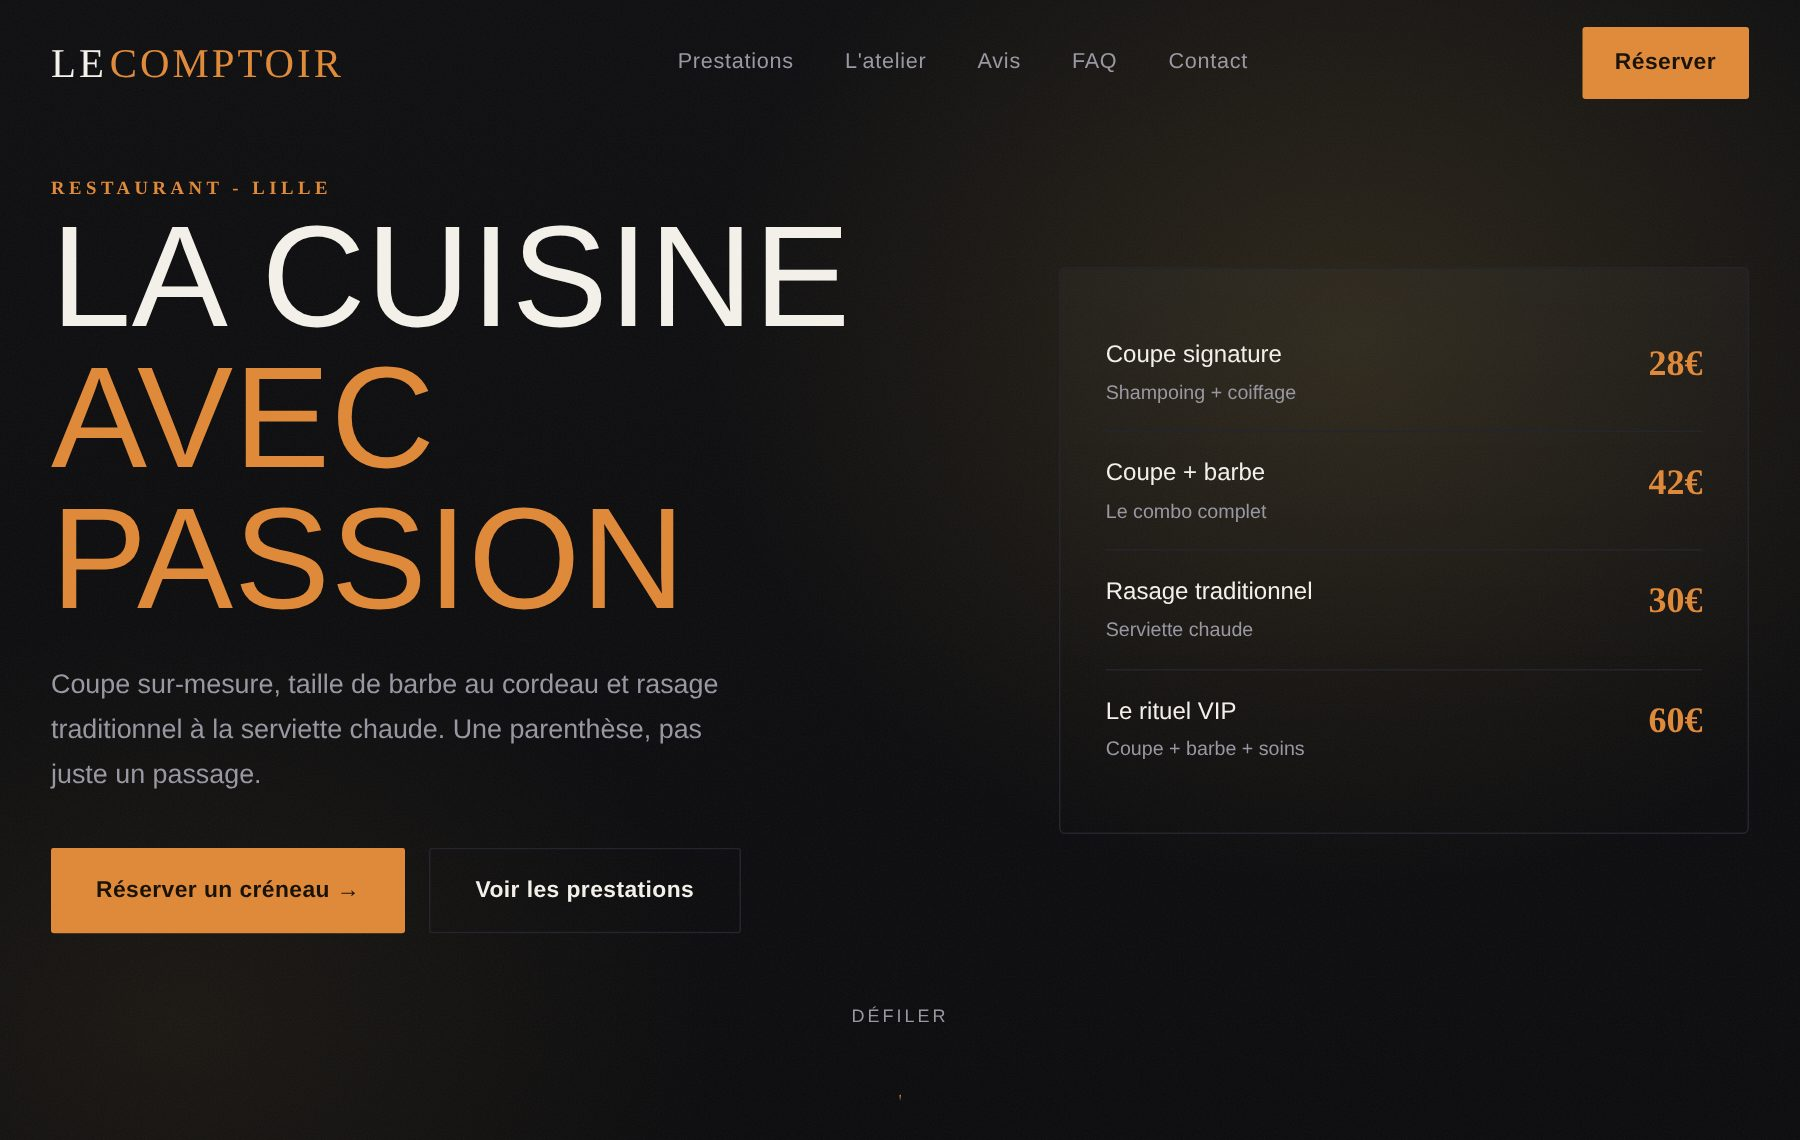
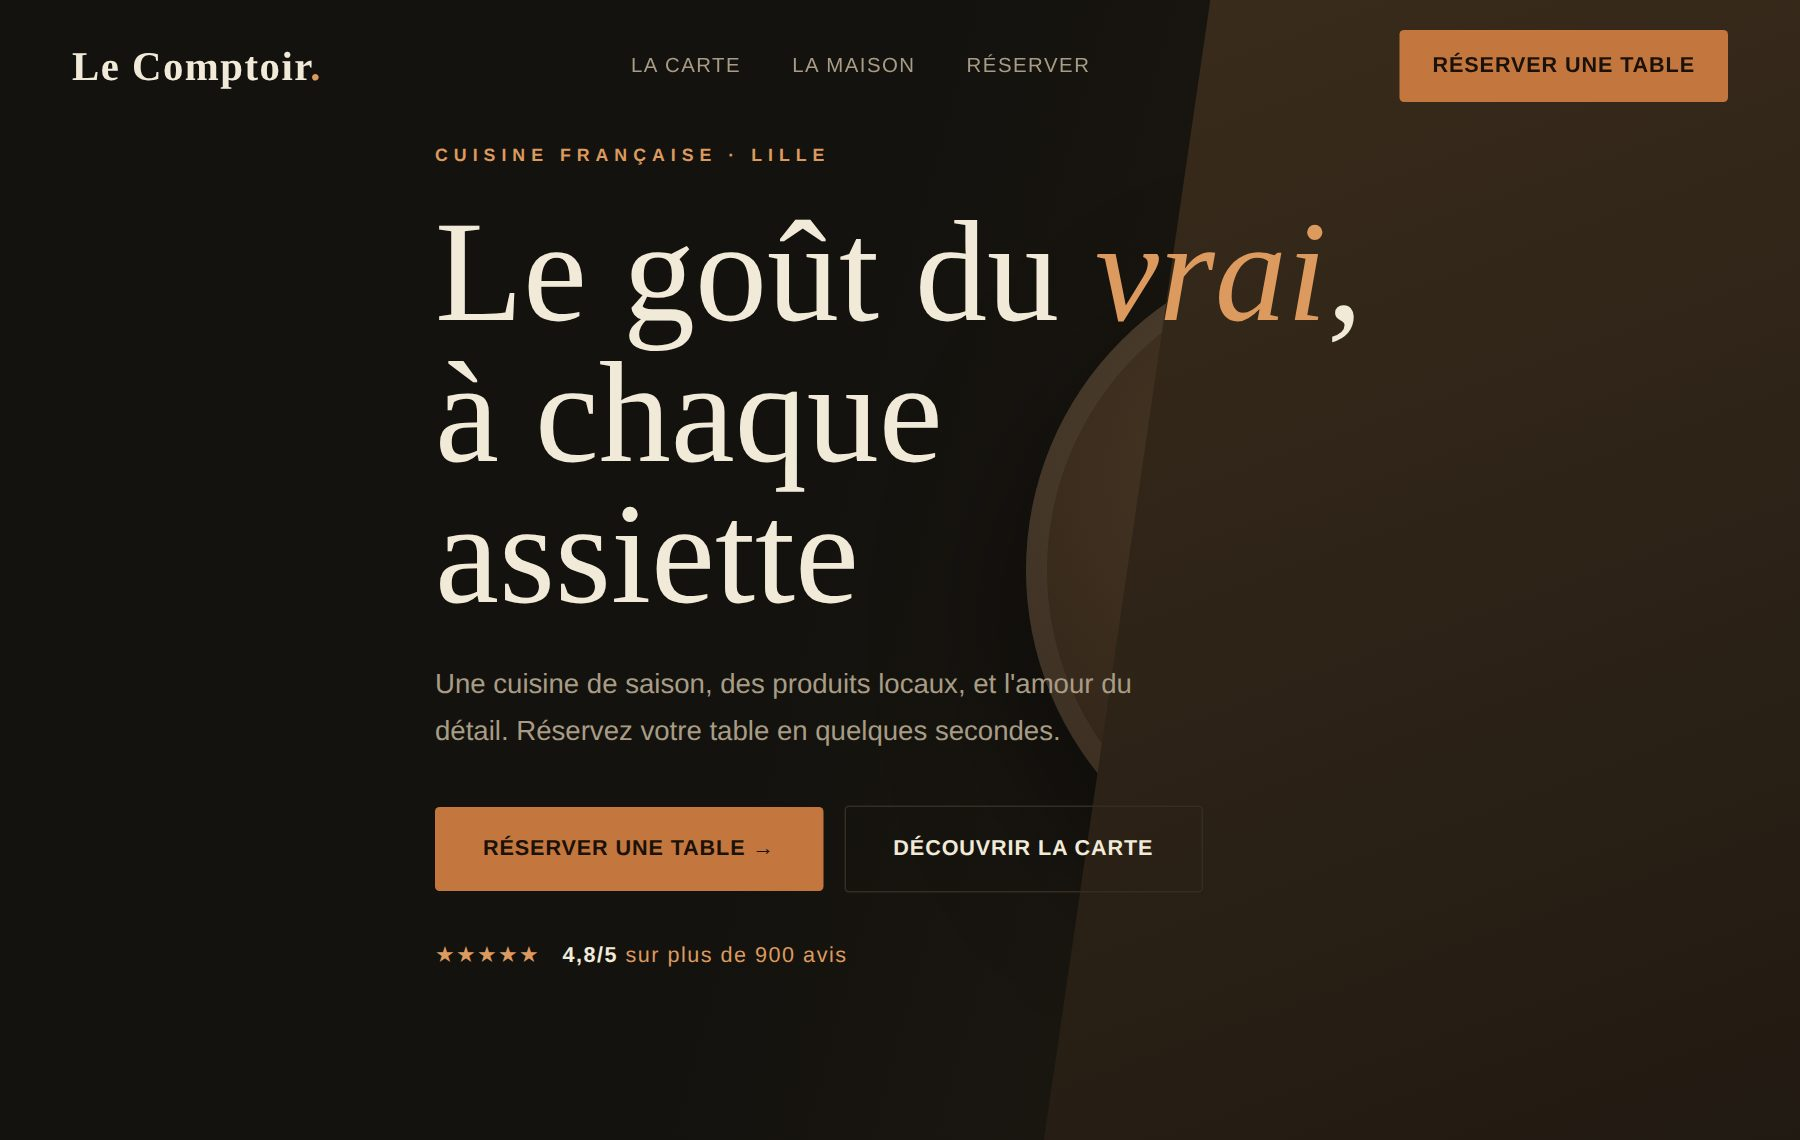
Nouveaux sites demo distincts (Bella Nails beaute + Le Comptoir resto) + portfolio maj

diff --git a/sites_demo/le-comptoir/index.html b/sites_demo/le-comptoir/index.html
@@ -1,0 +1,118 @@
+<!DOCTYPE html>
+<html lang="fr">
+<head>
+<meta charset="UTF-8">
+<meta name="viewport" content="width=device-width, initial-scale=1.0">
+<title>Le Comptoir — Restaurant de cuisine française à Lille</title>
+<meta name="description" content="Restaurant gastronomique à Lille. Cuisine française de saison, produits locaux. Réservation en ligne.">
+<link rel="preconnect" href="https://fonts.googleapis.com"><link rel="preconnect" href="https://fonts.gstatic.com" crossorigin>
+<link href="https://fonts.googleapis.com/css2?family=Fraunces:opsz,wght@9..144,400;9..144,500;9..144,600;9..144,700&family=Inter:wght@300;400;500&display=swap" rel="stylesheet">
+<style>
+:root{--bg:#14120e;--bg2:#1c1913;--cream:#f2ead9;--ink:#14120e;--terra:#c4763f;--terra2:#dd9a5e;--olive:#7d8466;--mut:#a89c86;--line:#332d22;--ease:cubic-bezier(.22,1,.36,1)}
+*{margin:0;padding:0;box-sizing:border-box}html{scroll-behavior:smooth}
+body{background:var(--bg);color:var(--cream);font-family:'Inter',sans-serif;line-height:1.7}
+a{text-decoration:none;color:inherit}
+.serif{font-family:'Fraunces',serif}
+.wrap{max-width:1160px;margin:0 auto;padding:0 28px}
+.btn{display:inline-flex;align-items:center;gap:9px;background:var(--terra);color:#1a1109;padding:16px 32px;border-radius:3px;font-weight:600;font-size:.9rem;letter-spacing:.6px;text-transform:uppercase;transition:.35s var(--ease)}
+.btn:hover{background:var(--terra2);transform:translateY(-2px);box-shadow:0 14px 32px rgba(196,118,63,.3)}
+.btn-out{background:transparent;border:1px solid var(--line);color:var(--cream)}
+.btn-out:hover{border-color:var(--cream)}
+.eyebrow{font-size:.74rem;letter-spacing:4px;text-transform:uppercase;color:var(--terra2);font-weight:600}
+header{position:fixed;inset:0 0 auto;z-index:50;transition:.4s}
+header.scr{background:rgba(20,18,14,.9);backdrop-filter:blur(10px);border-bottom:1px solid var(--line)}
+.nav{display:flex;align-items:center;justify-content:space-between;height:88px}
+.logo{font-family:'Fraunces';font-weight:600;font-size:1.7rem;letter-spacing:1px}
+.logo span{color:var(--terra2)}
+.menu{display:flex;gap:34px;align-items:center}
+.menu a{font-size:.85rem;color:var(--mut);letter-spacing:1px;text-transform:uppercase}.menu a:hover{color:var(--cream)}
+.burger{display:none;font-size:1.5rem;background:none;border:none;color:var(--cream);cursor:pointer}
+.hero{position:relative;min-height:100vh;display:flex;align-items:center;padding-top:88px;overflow:hidden}
+.hero-bg{position:absolute;inset:0;z-index:0;background:linear-gradient(105deg,#14120e 0%,#14120e 46%,#241f16 100%)}
+.hero-bg::after{content:"";position:absolute;right:0;top:0;bottom:0;width:42%;background:linear-gradient(160deg,#3a2c1c,#211a12);clip-path:polygon(22% 0,100% 0,100% 100%,0 100%)}
+.hero-bg .plate{position:absolute;right:7%;top:50%;transform:translateY(-50%);width:min(36vw,440px);aspect-ratio:1;border-radius:50%;background:radial-gradient(circle at 40% 35%,#4a3826,#241a10);box-shadow:0 40px 90px rgba(0,0,0,.5),inset 0 0 0 14px rgba(242,234,217,.06);display:grid;place-items:center}
+.hero-bg .plate span{font-family:'Fraunces';font-style:italic;color:var(--mut);font-size:1.3rem}
+.hero-inner{position:relative;z-index:2;max-width:620px}
+.hero h1{font-family:'Fraunces';font-size:clamp(3.2rem,8vw,6rem);font-weight:500;line-height:.98;margin:18px 0 24px}
+.hero h1 em{font-style:italic;color:var(--terra2)}
+.hero p{color:var(--mut);font-size:1.15rem;max-width:480px;margin-bottom:34px}
+.hero-actions{display:flex;gap:14px;flex-wrap:wrap;align-items:center}
+.stars{margin-top:30px;color:var(--terra2);font-size:.9rem;letter-spacing:1px}
+.stars b{color:var(--cream)}
+section{padding:110px 0}
+.head{max-width:620px;margin:0 auto 64px;text-align:center}
+.head h2{font-family:'Fraunces';font-size:clamp(2.4rem,5vw,3.6rem);font-weight:500;margin:12px 0}
+.head p{color:var(--mut)}
+.dishes{display:grid;grid-template-columns:repeat(3,1fr);gap:26px}
+.dish{border:1px solid var(--line);border-radius:6px;overflow:hidden;background:var(--bg2);transition:.4s var(--ease)}
+.dish:hover{transform:translateY(-6px);border-color:var(--terra)}
+.dish .img{aspect-ratio:4/3;background:linear-gradient(150deg,#3a2c1c,#221a11)}
+.dish:nth-child(2) .img{background:linear-gradient(150deg,#3c3322,#211d12)}
+.dish:nth-child(3) .img{background:linear-gradient(150deg,#42301f,#241813)}
+.dish .info{padding:24px}
+.dish h3{font-family:'Fraunces';font-size:1.5rem;font-weight:500;margin-bottom:6px}
+.dish p{color:var(--mut);font-size:.92rem}
+.dish .price{font-family:'Fraunces';color:var(--terra2);font-size:1.3rem;margin-top:12px;display:block}
+.split{display:grid;grid-template-columns:1fr 1fr;gap:60px;align-items:center}
+.frame{aspect-ratio:4/5;border-radius:6px;background:linear-gradient(150deg,#2c2417,#1a150e);position:relative;display:grid;place-items:center}
+.frame span{font-family:'Fraunces';font-style:italic;color:var(--mut)}
+.frame::after{content:"";position:absolute;inset:16px;border:1px solid rgba(242,234,217,.14)}
+.split h2{font-family:'Fraunces';font-size:clamp(2.2rem,4.5vw,3.2rem);font-weight:500;margin:14px 0 16px}
+.split p{color:var(--mut);margin-bottom:14px}
+.band{position:relative;text-align:center;padding:90px 30px;background:linear-gradient(180deg,#1c1913,#14120e);border-top:1px solid var(--line);border-bottom:1px solid var(--line)}
+.band h2{font-family:'Fraunces';font-size:clamp(2.4rem,5vw,3.8rem);font-weight:500;margin-bottom:16px}
+.band p{color:var(--mut);margin-bottom:28px}
+footer{padding:54px 0 30px;text-align:center;color:var(--mut);font-size:.85rem}
+@media(max-width:860px){.menu{display:none}.burger{display:block}.dishes,.split{grid-template-columns:1fr}.hero-bg::after,.hero-bg .plate{display:none}}
+</style></head>
+<body>
+<header id="h"><div class="wrap nav">
+  <a href="#" class="logo">Le Comptoir<span>.</span></a>
+  <nav class="menu"><a href="#carte">La carte</a><a href="#maison">La maison</a><a href="#reserver">Réserver</a></nav>
+  <a href="#reserver" class="btn" style="padding:12px 22px">Réserver une table</a>
+</div></header>
+
+<section class="hero">
+  <div class="hero-bg"><div class="plate"><span>Votre plat signature</span></div></div>
+  <div class="wrap"><div class="hero-inner">
+    <span class="eyebrow">Cuisine française · Lille</span>
+    <h1 class="serif">Le goût du <em>vrai</em>, à chaque assiette</h1>
+    <p>Une cuisine de saison, des produits locaux, et l'amour du détail. Réservez votre table en quelques secondes.</p>
+    <div class="hero-actions">
+      <a href="#reserver" class="btn">Réserver une table →</a>
+      <a href="#carte" class="btn btn-out">Découvrir la carte</a>
+    </div>
+    <div class="stars">★★★★★ &nbsp; <b>4,8/5</b> sur plus de 900 avis</div>
+  </div></div>
+</section>
+
+<section id="carte"><div class="wrap">
+  <div class="head"><span class="eyebrow">La carte</span><h2 class="serif">Nos plats signature</h2><p>Une sélection qui change au fil des saisons.</p></div>
+  <div class="dishes">
+    <div class="dish"><div class="img"></div><div class="info"><h3 class="serif">Ris de veau</h3><p>Jus corsé, légumes glacés de saison.</p><span class="price serif">28€</span></div></div>
+    <div class="dish"><div class="img"></div><div class="info"><h3 class="serif">Bar de ligne</h3><p>Beurre blanc, fenouil rôti.</p><span class="price serif">26€</span></div></div>
+    <div class="dish"><div class="img"></div><div class="info"><h3 class="serif">Soufflé chocolat</h3><p>Coeur coulant, glace vanille bourbon.</p><span class="price serif">12€</span></div></div>
+  </div>
+</div></section>
+
+<section id="maison" style="background:var(--bg2)"><div class="wrap split">
+  <div class="frame"><span>Photo de la salle</span></div>
+  <div>
+    <span class="eyebrow">La maison</span>
+    <h2 class="serif">Une table, une histoire</h2>
+    <p>Depuis 2014, Le Comptoir réunit les amoureux de la bonne chère dans une ambiance chaleureuse et intime.</p>
+    <p>Produits sélectionnés chez nos producteurs locaux, cuisine ouverte, service aux petits soins.</p>
+    <a href="#reserver" class="btn" style="margin-top:14px">Réserver votre soirée →</a>
+  </div>
+</div></section>
+
+<section style="padding:0"><div class="band">
+  <span class="eyebrow">Réservation</span>
+  <h2 class="serif">Réservez votre table</h2>
+  <p>Midi & soir, du mardi au dimanche. En ligne, en deux clics.</p>
+  <a href="#" class="btn">Réserver maintenant →</a>
+</div></section>
+
+<footer><div class="wrap"><div class="logo" style="margin-bottom:10px">Le Comptoir<span>.</span></div>© 2026 Le Comptoir — Restaurant à Lille · Site par Studio Lumen</div></footer>
+<script>addEventListener('scroll',()=>document.getElementById('h').classList.toggle('scr',scrollY>30));</script>
+</body></html>

diff --git a/sites_demo/bella-nails/index.html b/sites_demo/bella-nails/index.html
@@ -1,0 +1,115 @@
+<!DOCTYPE html>
+<html lang="fr">
+<head>
+<meta charset="UTF-8">
+<meta name="viewport" content="width=device-width, initial-scale=1.0">
+<title>Bella Nails — Onglerie & beauté des mains à Lille</title>
+<meta name="description" content="Onglerie premium à Lille. Pose gel, nail art, manucure, soins. Prise de rendez-vous en ligne.">
+<link rel="preconnect" href="https://fonts.googleapis.com"><link rel="preconnect" href="https://fonts.gstatic.com" crossorigin>
+<link href="https://fonts.googleapis.com/css2?family=Cormorant+Garamond:wght@400;500;600;700&family=Jost:wght@300;400;500;600&display=swap" rel="stylesheet">
+<style>
+:root{--bg:#fbf4f1;--cream:#fff;--ink:#33222a;--rose:#d98ba0;--rose2:#c06f88;--gold:#bda07a;--mut:#917f86;--line:#ecddd7;--ease:cubic-bezier(.22,1,.36,1)}
+*{margin:0;padding:0;box-sizing:border-box}html{scroll-behavior:smooth}
+body{background:var(--bg);color:var(--ink);font-family:'Jost',sans-serif;line-height:1.7}
+a{text-decoration:none;color:inherit}
+.serif{font-family:'Cormorant Garamond',serif}
+.wrap{max-width:1140px;margin:0 auto;padding:0 26px}
+.btn{display:inline-flex;align-items:center;gap:8px;background:var(--ink);color:#fff;padding:15px 30px;border-radius:50px;font-weight:500;font-size:.92rem;letter-spacing:.5px;transition:.35s var(--ease)}
+.btn:hover{background:var(--rose2);transform:translateY(-2px);box-shadow:0 14px 30px rgba(192,111,136,.3)}
+.btn-out{background:transparent;border:1px solid var(--ink);color:var(--ink)}
+.btn-out:hover{background:var(--ink);color:#fff}
+.eyebrow{font-size:.74rem;letter-spacing:4px;text-transform:uppercase;color:var(--rose2);font-weight:600}
+header{position:fixed;inset:0 0 auto;z-index:50;transition:.4s}
+header.scr{background:rgba(251,244,241,.92);backdrop-filter:blur(10px);border-bottom:1px solid var(--line)}
+.nav{display:flex;align-items:center;justify-content:space-between;height:84px}
+.logo{font-family:'Cormorant Garamond';font-weight:700;font-size:1.9rem;letter-spacing:.5px}
+.logo span{color:var(--rose2);font-style:italic}
+.menu{display:flex;gap:32px;align-items:center}
+.menu a{font-size:.9rem;color:var(--mut);letter-spacing:.5px}.menu a:hover{color:var(--ink)}
+.burger{display:none;font-size:1.5rem;background:none;border:none;cursor:pointer}
+.hero{position:relative;padding:150px 0 90px;overflow:hidden}
+.hero::before{content:"";position:absolute;width:560px;height:560px;background:radial-gradient(circle,rgba(217,139,160,.18),transparent 70%);border-radius:50%;top:-120px;right:-120px;z-index:0}
+.hero-grid{display:grid;grid-template-columns:1.05fr .95fr;gap:54px;align-items:center;position:relative;z-index:1}
+.hero h1{font-size:clamp(3rem,6.5vw,5.2rem);font-weight:600;line-height:1.02;margin:16px 0 22px}
+.hero h1 em{font-style:italic;color:var(--rose2)}
+.hero p{color:var(--mut);font-size:1.12rem;max-width:460px;margin-bottom:32px}
+.hero-actions{display:flex;gap:14px;flex-wrap:wrap}
+.hero-visual{aspect-ratio:4/5;border-radius:220px 220px 28px 28px;background:linear-gradient(160deg,#f3d4dd,#e9bccb);position:relative;display:grid;place-items:center;overflow:hidden;box-shadow:0 30px 70px rgba(192,111,136,.25)}
+.hero-visual .lab{font-family:'Cormorant Garamond';font-style:italic;font-size:1.6rem;color:#fff;opacity:.85}
+.hero-visual::after{content:"";position:absolute;inset:16px;border:1px solid rgba(255,255,255,.5);border-radius:200px 200px 20px 20px}
+.tags{display:flex;gap:26px;margin-top:34px;flex-wrap:wrap}
+.tags div{display:flex;flex-direction:column}
+.tags b{font-family:'Cormorant Garamond';font-size:1.9rem;color:var(--rose2);line-height:1}
+.tags span{font-size:.8rem;color:var(--mut)}
+section{padding:96px 0}
+.head{text-align:center;max-width:600px;margin:0 auto 60px}
+.head h2{font-family:'Cormorant Garamond';font-size:clamp(2.4rem,5vw,3.4rem);font-weight:600;margin:12px 0}
+.head p{color:var(--mut)}
+.serv{display:grid;grid-template-columns:repeat(2,1fr);gap:22px;max-width:860px;margin:0 auto}
+.s-item{display:flex;justify-content:space-between;align-items:baseline;gap:16px;padding:22px 26px;background:var(--cream);border-radius:16px;border:1px solid var(--line);transition:.3s}
+.s-item:hover{transform:translateY(-3px);box-shadow:0 14px 34px rgba(192,111,136,.12)}
+.s-item .n{font-family:'Cormorant Garamond';font-size:1.4rem}
+.s-item .d{font-size:.84rem;color:var(--mut);display:block;font-family:'Jost'}
+.s-item .p{font-family:'Cormorant Garamond';font-size:1.5rem;color:var(--rose2);white-space:nowrap}
+.gal{display:grid;grid-template-columns:repeat(4,1fr);gap:14px}
+.gal div{aspect-ratio:3/4;border-radius:14px;background:linear-gradient(160deg,#f3d4dd,#e3aebf)}
+.gal div:nth-child(2){background:linear-gradient(160deg,#efe0d3,#e7c9b4)}
+.gal div:nth-child(3){background:linear-gradient(160deg,#e8d6e2,#d3aecb)}
+.gal div:nth-child(4){background:linear-gradient(160deg,#f0d8d1,#e0b3a8)}
+.band{background:var(--ink);color:#fff;text-align:center;border-radius:28px;padding:64px 30px;margin:0 26px}
+.band h2{font-family:'Cormorant Garamond';font-size:clamp(2.2rem,5vw,3.2rem);font-weight:600;margin-bottom:14px}
+.band p{opacity:.8;margin-bottom:26px}
+.band .btn{background:var(--rose2)}
+footer{padding:50px 0 30px;border-top:1px solid var(--line);text-align:center;color:var(--mut);font-size:.85rem}
+@media(max-width:860px){.menu{display:none}.burger{display:block}.hero-grid,.serv{grid-template-columns:1fr}.gal{grid-template-columns:1fr 1fr}}
+</style></head>
+<body>
+<header id="h"><div class="wrap nav">
+  <a href="#" class="logo">Bella<span> Nails</span></a>
+  <nav class="menu"><a href="#prestations">Prestations</a><a href="#galerie">Galerie</a><a href="#rdv">Rendez-vous</a></nav>
+  <a href="#rdv" class="btn" style="padding:11px 22px">Prendre RDV</a>
+</div></header>
+
+<section class="hero"><div class="wrap hero-grid">
+  <div>
+    <span class="eyebrow">Onglerie & beauté · Lille</span>
+    <h1 class="serif">Des ongles <em>sublimes</em>, pensés pour vous</h1>
+    <p>Pose gel, nail art sur-mesure, manucure et soins dans un écrin doux et raffiné. Prenez rendez-vous en quelques secondes.</p>
+    <div class="hero-actions">
+      <a href="#rdv" class="btn">Réserver mon moment →</a>
+      <a href="#prestations" class="btn btn-out">Voir les prestations</a>
+    </div>
+    <div class="tags">
+      <div><b>4,9/5</b><span>+300 avis</span></div>
+      <div><b>7j/7</b><span>sur rendez-vous</span></div>
+      <div><b>100%</b><span>hygiène garantie</span></div>
+    </div>
+  </div>
+  <div class="hero-visual"><span class="lab">Votre photo ici</span></div>
+</div></section>
+
+<section id="prestations"><div class="wrap">
+  <div class="head"><span class="eyebrow">Nos prestations</span><h2 class="serif">Le soin du détail</h2><p>Des prestations délicates, réalisées avec des produits haut de gamme.</p></div>
+  <div class="serv">
+    <div class="s-item"><div class="n serif">Pose gel<span class="d">Couleur au choix, tenue 3 semaines</span></div><span class="p serif">35€</span></div>
+    <div class="s-item"><div class="n serif">Nail art<span class="d">Création sur-mesure</span></div><span class="p serif">45€</span></div>
+    <div class="s-item"><div class="n serif">Manucure russe<span class="d">Précision & finition parfaite</span></div><span class="p serif">40€</span></div>
+    <div class="s-item"><div class="n serif">Soin des mains<span class="d">Gommage + masque + massage</span></div><span class="p serif">28€</span></div>
+  </div>
+</div></section>
+
+<section id="galerie" style="background:var(--cream)"><div class="wrap">
+  <div class="head"><span class="eyebrow">Galerie</span><h2 class="serif">Nos plus belles créations</h2></div>
+  <div class="gal"><div></div><div></div><div></div><div></div></div>
+</div></section>
+
+<section id="rdv"><div class="wrap"><div class="band">
+  <span class="eyebrow" style="color:var(--rose)">Réservation</span>
+  <h2 class="serif">Offrez-vous une parenthèse beauté</h2>
+  <p>Réservez en ligne, 7j/7. On s'occupe du reste.</p>
+  <a href="#" class="btn">Prendre rendez-vous →</a>
+</div></div></section>
+
+<footer><div class="wrap"><div class="logo" style="margin-bottom:10px">Bella<span> Nails</span></div>© 2026 Bella Nails — Onglerie à Lille · Site par Studio Lumen</div></footer>
+<script>addEventListener('scroll',()=>document.getElementById('h').classList.toggle('scr',scrollY>30));</script>
+</body></html>